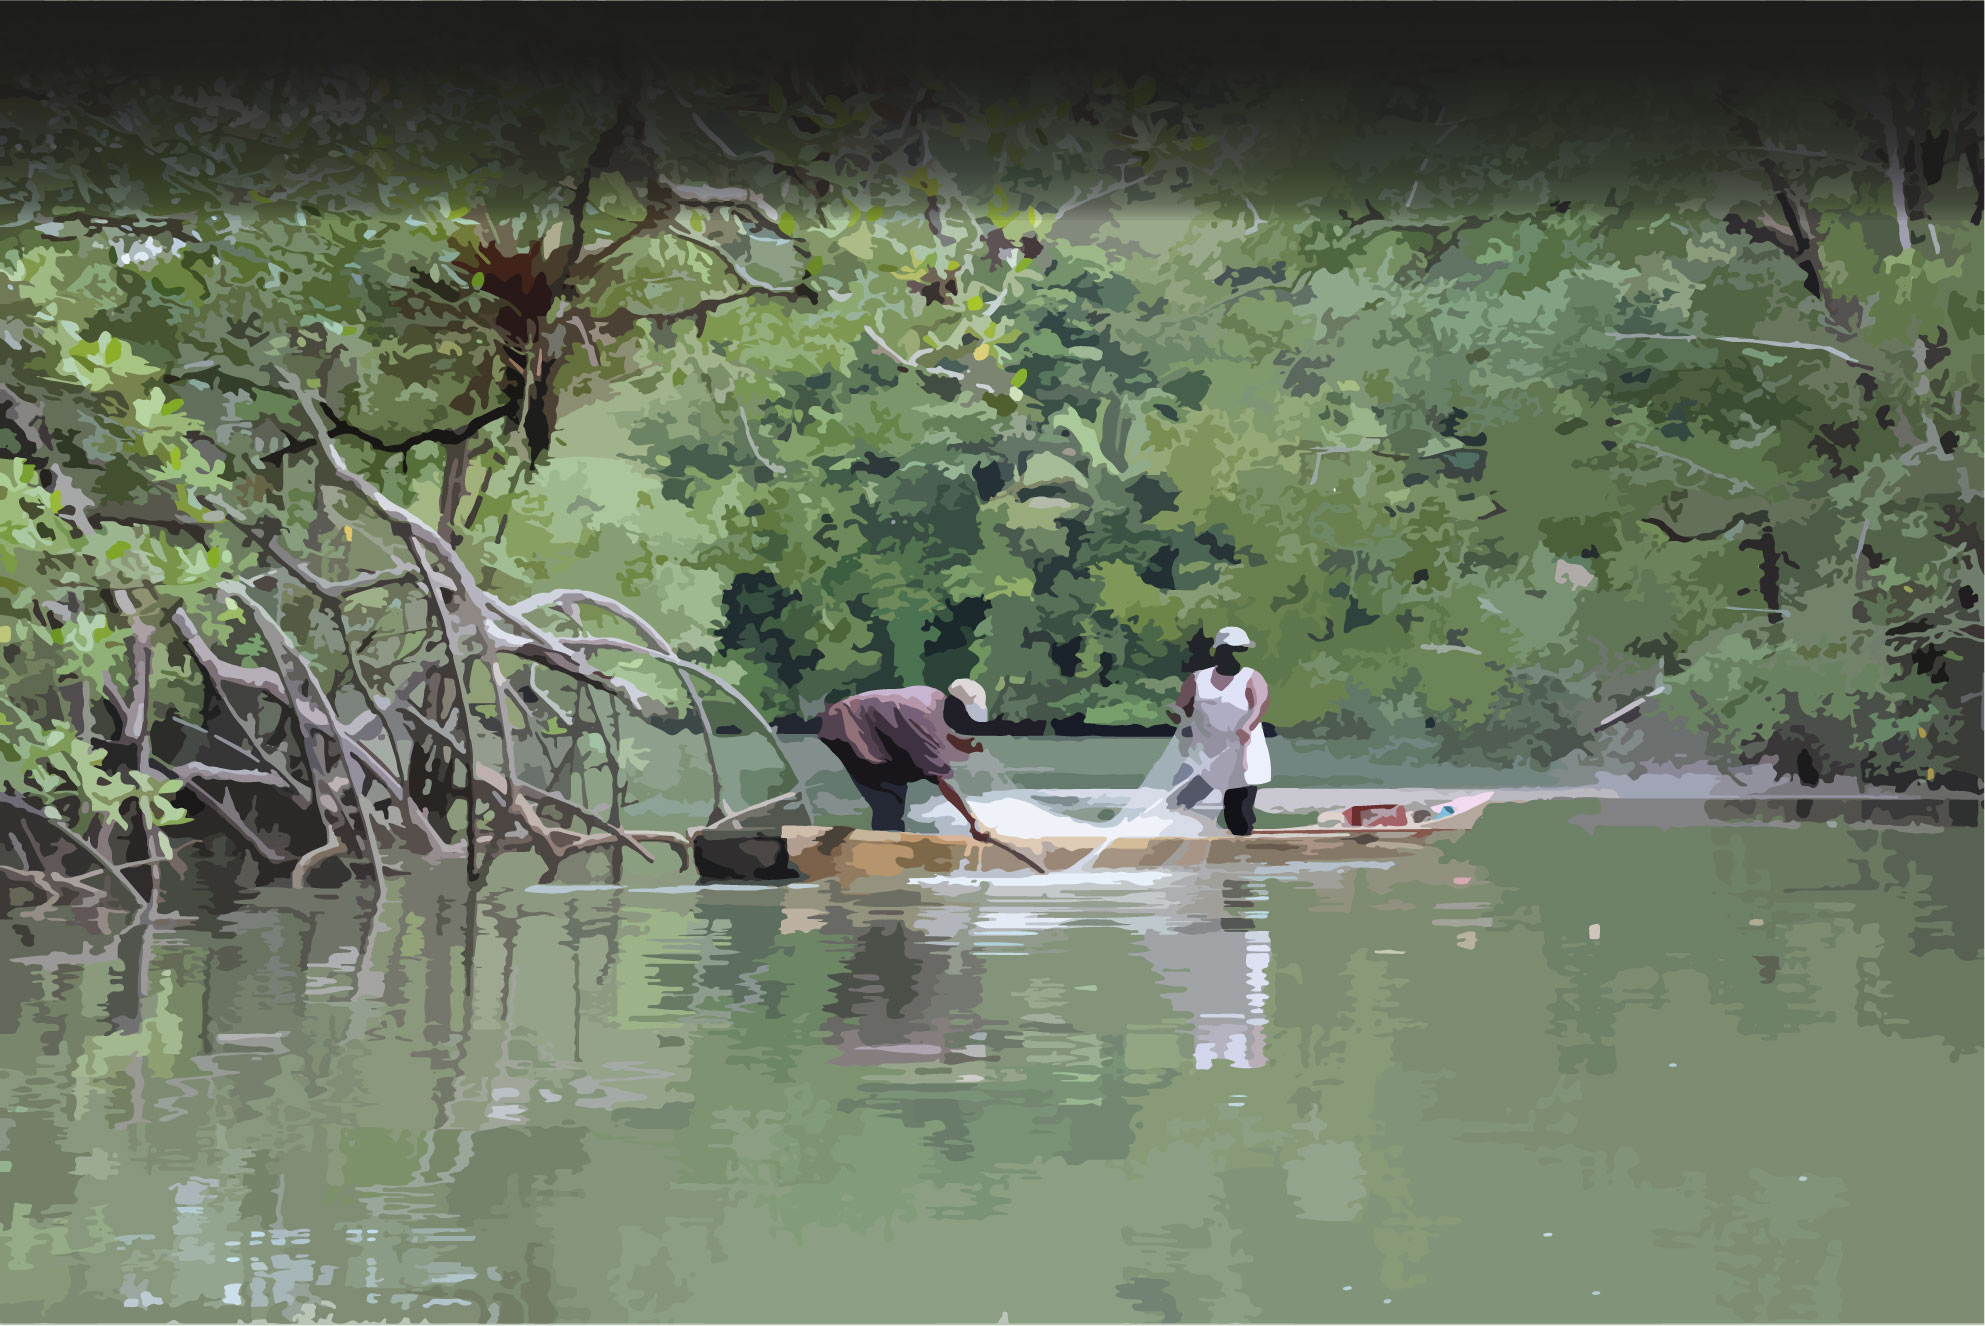
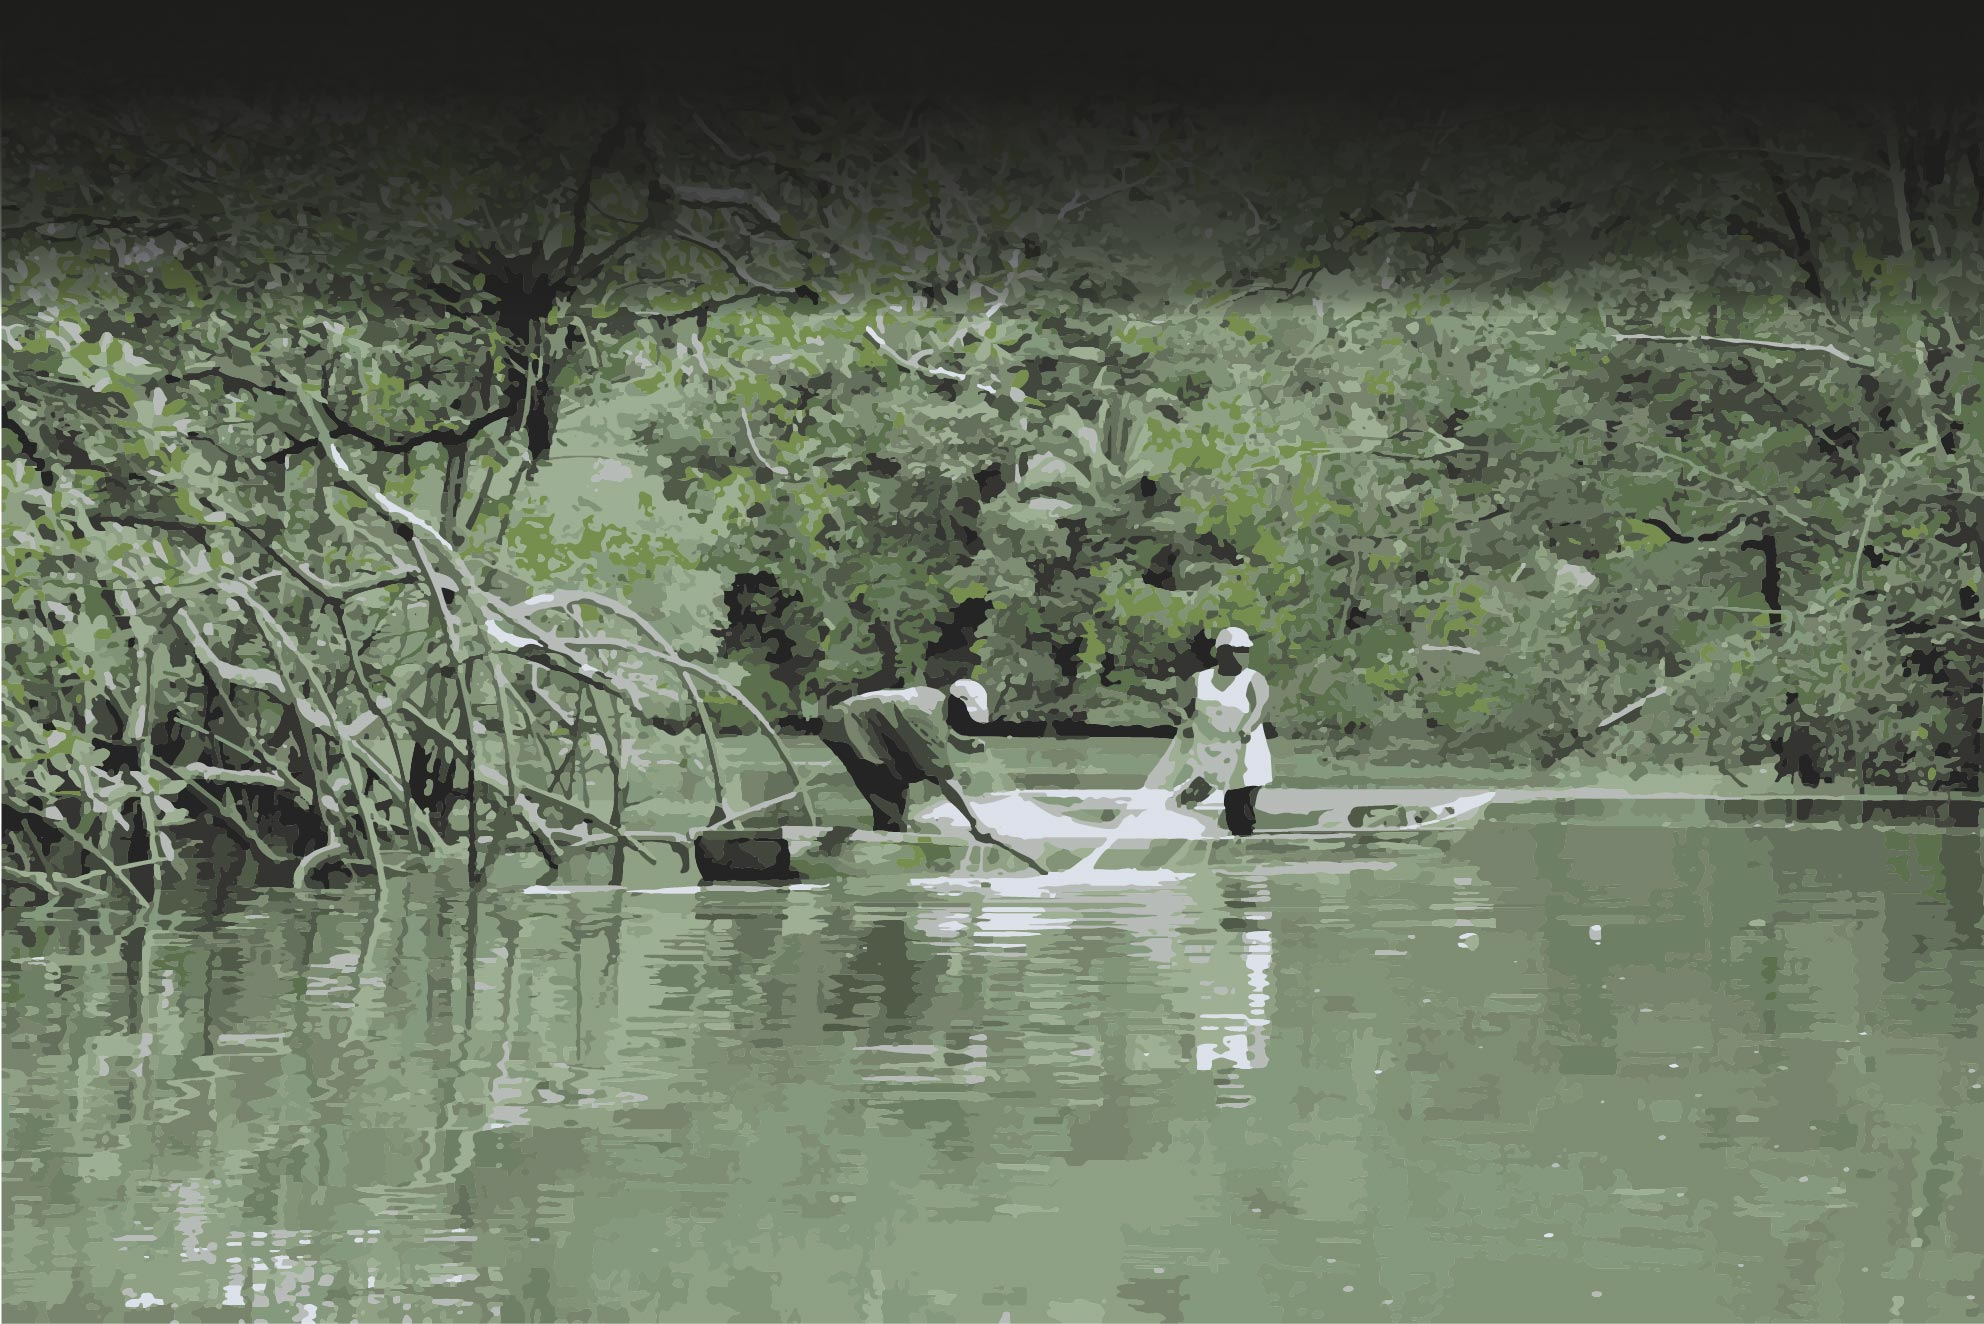
Arreglos finales, se agregan links y se pone la última versión del fondo del Home.

diff --git a/index.html b/index.html
@@ -49,7 +49,7 @@
 						<div class="inner">
 							<header>
 								<div class="video-container">
-									<iframe width="560" height="315" src="https://www.youtube.com/embed/PmAJi1nLb3s?autoplay=1" frameborder="0" allowfullscreen></iframe>
+									<iframe width="560" height="315" src="https://www.youtube.com/embed/PmAJi1nLb3s?autoplay=0" frameborder="0" allowfullscreen></iframe>
 								</div>
 							</header>
 							<footer>
@@ -122,7 +122,11 @@
 						<p>
 							Este documental web narra la historia de Aura, Héctor, Francisco, Daira y Gualajo, cinco desplazados provenientes del Pacífico
 							colombiano que siguen conservando sus prácticas culturales a pesar de estar lejos de sus territorios ancestrales.
-							De igual forma, busca visibilizar la ausencia de políticas públicas dirigidas a la protección del patrimonio cultural
+							De igual forma, busca visibilizar la ausencia de
+							<a href="http://www.sinic.gov.co/SINIC/Sipa_Conceptos_Comite_Tecnico/ley%20397%20de%201997.pdf" class="link-ver-mas" target="_blank">
+								políticas públicas
+							</a>
+							dirigidas a la protección del patrimonio cultural
 							inmaterial de las comunidades desplazadas en Colombia, constituyéndose además, como un espacio de participación e intercambio
 							cultural. Aquí podrá conocer la riqueza cultural del Pacífico colombiano a través de sus danzas, su música, su gastronomía y
 							su tradición oral. Todos tenemos un patrimonio cultural inmaterial, compártenos algo del tuyo.
@@ -171,7 +175,8 @@
 							el bombo y el guasá, acompañado del cantar de las cantadoras, conforman la banda sonora del rito fúnebre que despide al muerto.
 							<br>
 							<br>
-							El maestro Gualajo, marimbero nacido en Guapí, conocido como el pianista de la selva,
+							<a href="https://www.youtube.com/watch?v=zaxzVs5z7vo" class="link-ver-mas" target="_blank">El maestro Gualajo,</a>
+							marimbero nacido en Guapí, conocido como el pianista de la selva,
 							es uno de los principales exponentes del folclor del Pacífico. Ha llevado el sonido de la marimba a recorrer el mundo
 							y ha logrado que esta manifestación de la cultura afro tenga visibilización en otros contextos.
 							“Para mí la marimba es mi alma”, dice el maestro, quien agradece a su padre el amor que inculcó por la marimba a él
@@ -190,8 +195,10 @@
 						<header>
 							<h2>¿Sabías que hay historias que nunca se escriben?</h2>
 							<p>
-								Nunca morirá una lengua mientras sobreviva el último hablante que monologue con sus Ancestros.
-								Manuel Zapata Olivella, representante de la literatura afrocolombiana.
+								<i>Nunca morirá una lengua mientras sobreviva el último hablante que monologue con sus Ancestros.</i>
+								<a href="http://cvc.cervantes.es/lengua/thesaurus/pdf/52/TH_52_123_326_0.pdf" class="link-ver-mas" target="_blank">
+									Manuel Zapata Olivella, representante de la literatura afrocolombiana.
+								</a>
 							</p>
 						</header>
 
@@ -218,7 +225,11 @@
 					</div>
 					<p id="leer-mas-2" class="leer-mas-class">
 						En el caso de los afro pacíficos la oralidad se caracteriza por tener aspectos de culturas
-						africanas y de algunas estructuras  literarias del castellano, sobre todo las formas poéticas.
+						africanas y de algunas estructuras  literarias del castellano, sobre todo las
+						<a href="http://www.banrepcultural.org/sites/default/files/87970/16-antologia-de-mujeres_afrocolombianas_.pdf"
+								class="link-ver-mas" target="_blank">
+							formas poéticas.
+						</a>
 						El cuentero, el decimero, los rezanderos y las cantaoras son figuras tradicionales que siguen transmitiendo los conocimientos
 						y los valores de una cultura ancestral que resistió al estigma y a la imposición cultural.
 						<br>
@@ -240,9 +251,15 @@
 						<header>
 							<h2>¿Sabías que el río baila?</h2>
 							<p>
-								Hay días cuando mi cuerpo se convierte en una fiesta, y en la sangre se alborotan los negritos de mi ancestro.
-								Danza de palma y de viento, de culebra, tierra y río, calor de ron y aguardiente trasegando por el pecho,
-								quemándome las entrañas de noche de luna llena por fuera y por nacimiento. María Teresa Ramírez, poeta afrocolombiana.
+								<i>
+									Hay días cuando mi cuerpo se convierte en una fiesta, y en la sangre se alborotan los negritos de mi ancestro.
+									Danza de palma y de viento, de culebra, tierra y río, calor de ron y aguardiente trasegando por el pecho,
+									quemándome las entrañas de noche de luna llena por fuera y por nacimiento.
+								</i>
+								<a href="http://www.banrepcultural.org/sites/default/files/87970/16-antologia-de-mujeres_afrocolombianas_.pdf"
+										class="link-ver-mas" target="_blank">
+									María Teresa Ramírez, poeta afrocolombiana.
+								</a>
 							</p>
 						</header>
 						<div class="seccion-previa-div">
@@ -460,7 +477,7 @@
 										Cecilia Angulo es una cociera tradicional del Pacifico colombiano.
 										A sus ocho años su madre le enseñó a cocinar en Buenaventura.
 										Hoy es la sub chef de Misia, un restaurante bogotano conocido por servir platos típicos de la región pacífica y caribe.
-										Conoce más de su historia.
+										<a href="http://funleo.org/" class="link-ver-mas"  target="_blank">Conoce más de su historia.</a>
 									</p>
 								</article>
 
@@ -469,7 +486,7 @@
 							</div>
 						</section>
 						<footer>
-							<a href="#features" class="button circled scrolly">Continuar</a>
+							<a href="#personajes" class="button circled scrolly">Continuar</a>
 						</footer>
 					</article>
 
@@ -484,9 +501,9 @@
 						</header>
 						<div class="row">
 							<article class="4u 12u(mobile) special">
-								<a href="#" class="image featured"><img src="images/personajes/Aura.png" alt="" /></a>
+								<a class="image featured"><img src="images/personajes/Aura.png" alt="" /></a>
 								<header>
-									<h3><a href="#" style="font-weight: bold;">Aura Carreño</a></h3>
+									<h3><a style="font-weight: bold;">Aura Carreño</a></h3>
 								</header>
 								<p>
 									Aura es una joven afro de 20 años que a pesar de haber nacido en Bogotá emprendió la búsqueda de su identidad afro
@@ -496,12 +513,12 @@
 								</p>
 							</article>
 							<article class="4u 12u(mobile) special">
-								<a href="#" class="image featured"><img src="images/personajes/Daira.png" alt="" /></a>
+								<a class="image featured"><img src="images/personajes/Daira.png" alt="" /></a>
 								<header>
-									<h3><a href="#" style="font-weight: bold;">Daira Quiñones</a></h3>
+									<h3><a style="font-weight: bold;">Daira Quiñones</a></h3>
 								</header>
 								<p>
-									Daira es cantora tradicional y directora de la Red Amdae, una organización comunitaria que trabaja por la
+									Daira es cantora tradicional y directora de la <a href="http://www.amdae.org/" class="link-ver-mas" target="_blank">Red Amdae</a>, una organización comunitaria que trabaja por la
 									conservación cultural de la comunidad afro en Bogotá y el sostenimiento de la población desplazada.
 									Daira lideró una titulación colectiva de tierra en Tumaco por lo que fue amenazada por grupos armados y tuvo que salir
 									desplazada hacia Bogotá hace 17 años. Ella narra la historia de su desplazamiento y de su trabajo con Amdae y la forma
@@ -509,9 +526,9 @@
 								</p>
 							</article>
 							<article class="4u 12u(mobile) special">
-								<a href="#" class="image featured"><img src="images/personajes/Gualajo.png" alt="" /></a>
+								<a class="image featured"><img src="images/personajes/Gualajo.png" alt="" /></a>
 								<header>
-									<h3><a href="#" style="font-weight: bold;">Maestro Gualajo</a></h3>
+									<h3><a style="font-weight: bold;">Maestro Gualajo</a></h3>
 								</header>
 								<p>
 									El Maestro Gualajo es un músico tradicional del Pacífico sur colombiano, reconocido principalmente por ser uno de los
@@ -526,9 +543,9 @@
 					<section id="personajes2" class="container special">
 						<div class="row">
 							<article class="4u 12u(mobile) special">
-								<a href="#" class="image featured"><img src="images/personajes/Hector.png" alt="" /></a>
+								<a class="image featured"><img src="images/personajes/Hector.png" alt="" /></a>
 								<header>
-									<h3><a href="#" style="font-weight: bold;">Héctor Tello Tenorio</a></h3>
+									<h3><a style="font-weight: bold;">Héctor Tello Tenorio</a></h3>
 								</header>
 								<p>
 									Héctor es el administrador de las casas para los derechos afro de las localidades de Ciudad Bolívar y Usme.
@@ -538,9 +555,9 @@
 								</p>
 							</article>
 							<article class="4u 12u(mobile) special">
-								<a href="#" class="image featured"><img src="images/personajes/Francisco.png" alt="" /></a>
+								<a class="image featured"><img src="images/personajes/Francisco.png" alt="" /></a>
 								<header>
-									<h3><a href="#" style="font-weight: bold;">Francisco Hinestrosa</a></h3>
+									<h3><a style="font-weight: bold;">Francisco Hinestrosa</a></h3>
 								</header>
 								<p>
 									Francisco es bailarín y maestro de danza folclórica en distintas universidades de Bogotá.
@@ -550,12 +567,12 @@
 								</p>
 							</article>
 							<article class="4u 12u(mobile) special">
-								<a href="#" class="image featured"><img src="images/personajes/Juan-de-Dios.png" alt="" /></a>
+								<a class="image featured"><img src="images/personajes/Juan-de-Dios.png" alt="" /></a>
 								<header>
-									<h3><a href="#" style="font-weight: bold;">Juan de Dios Mosquera</a></h3>
+									<h3><a style="font-weight: bold;">Juan de Dios Mosquera</a></h3>
 								</header>
 								<p>
-									Juan de Dios Mosquera es el fundador y director del Movimiento Nacional Cimarrón.
+									Juan de Dios Mosquera es el fundador y director del <a href="http://www.movimientocimarron.org/" class="link-ver-mas" target="_blank">Movimiento Nacional Cimarrón.</a>
 									Un movimiento que lucha por los derechos humanos y culturales de las comunidades afrocolombianas.
 									Es historiador y tiene una maestría en sociología de la Universidad Iberoamericana de México y ha dedicado su vida
 									a los estudios sobre  la cultura y la historia de África.
@@ -673,7 +690,8 @@
 								<!-- Copyright -->
 									<div class="copyright">
 										<ul class="menu">
-											<li>&copy; Untitled. All rights reserved.</li><li>Design: <a href="http://html5up.net">HTML5 UP</a></li>
+											<li>&copy; Semilla Sin Tierra. Todos los derechos reservados.</li>
+											<!-- <li>Design: <a href="http://html5up.net">HTML5 UP</a></li> -->
 										</ul>
 									</div>
 

diff --git a/assets/js/main.js b/assets/js/main.js
@@ -361,6 +361,8 @@ $('a.back-to-top').click(function() {
 
 //on click show the hider div and the message
 function mostrarFormularioContacto () {
+		$('#hider').css('display', 'inline-block');
+		$('#popup_box').css('display', 'inline-block');
 		$("#hider").fadeIn("slow");
 		$('#popup_box').fadeIn("slow");
 }

diff --git a/assets/css/main.css b/assets/css/main.css
@@ -1636,6 +1636,7 @@
 		a:hover {
 			color: #ef8376;
 			border-bottom-color: transparent;
+      cursor: pointer;
 		}
 
 	sub {
@@ -3355,7 +3356,8 @@ a.back-to-top {
 
 #hider
 {
-  display: inline-block;
+  /*display: inline-block;*/
+  display: none;
   position: absolute;
   margin: auto;
   top: 0;
